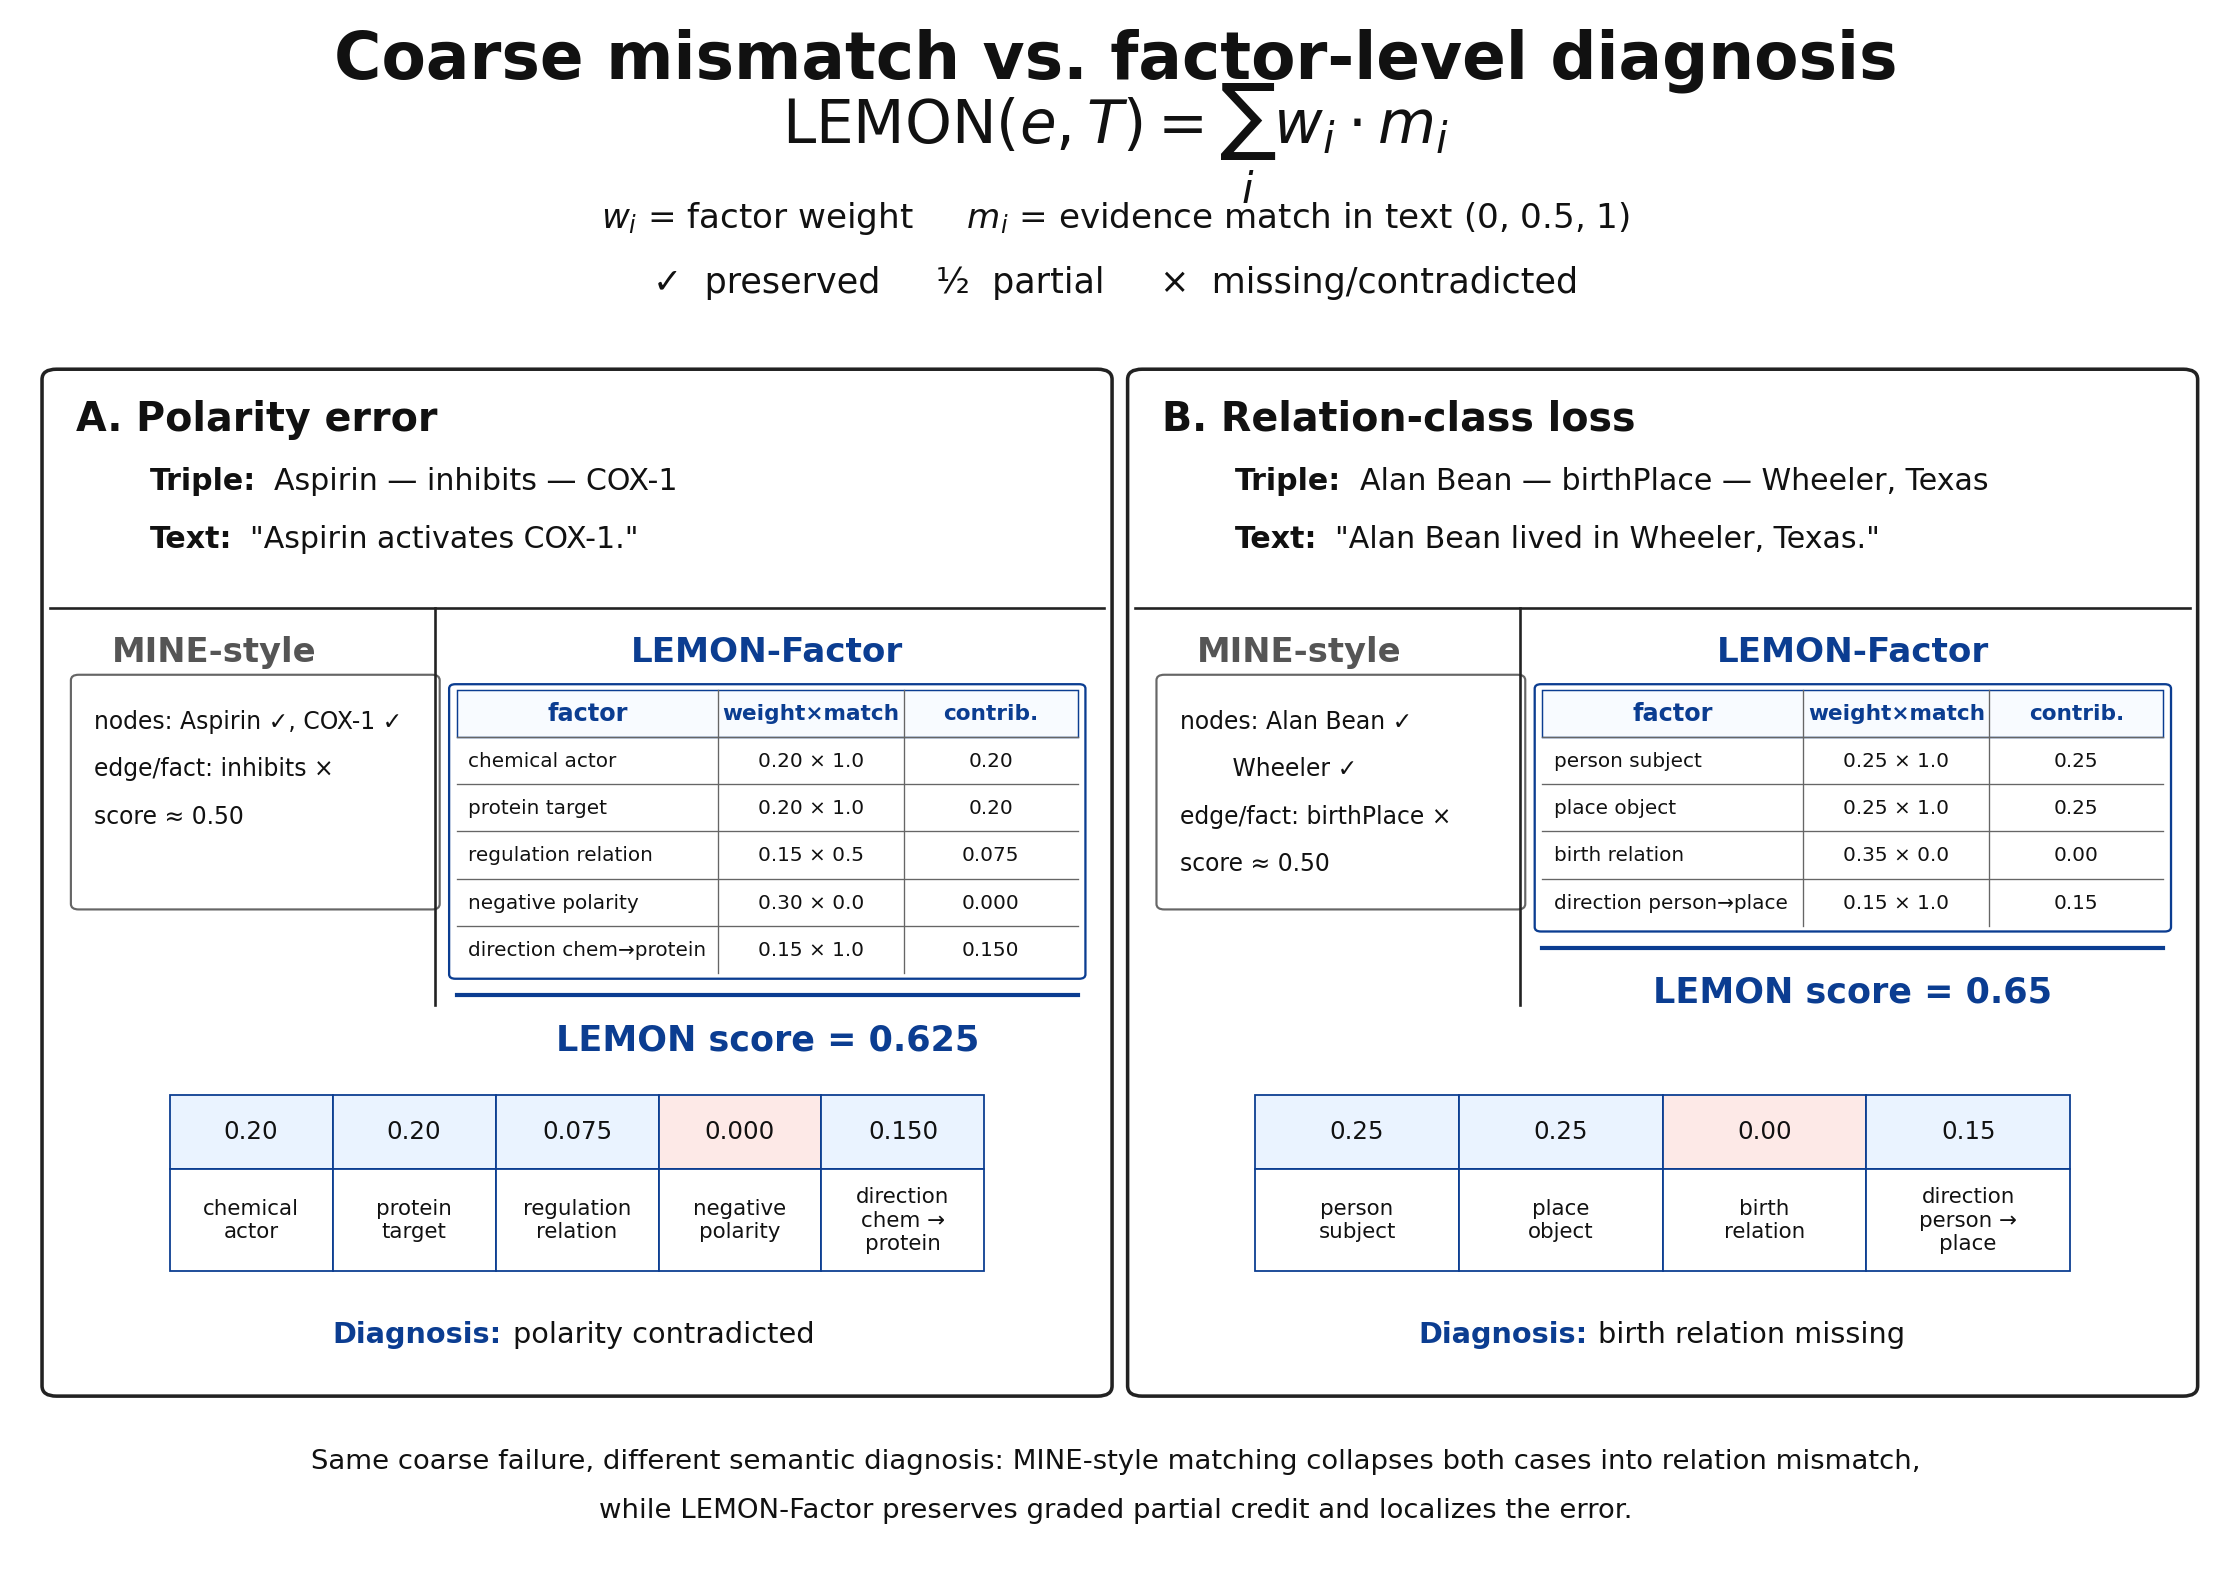
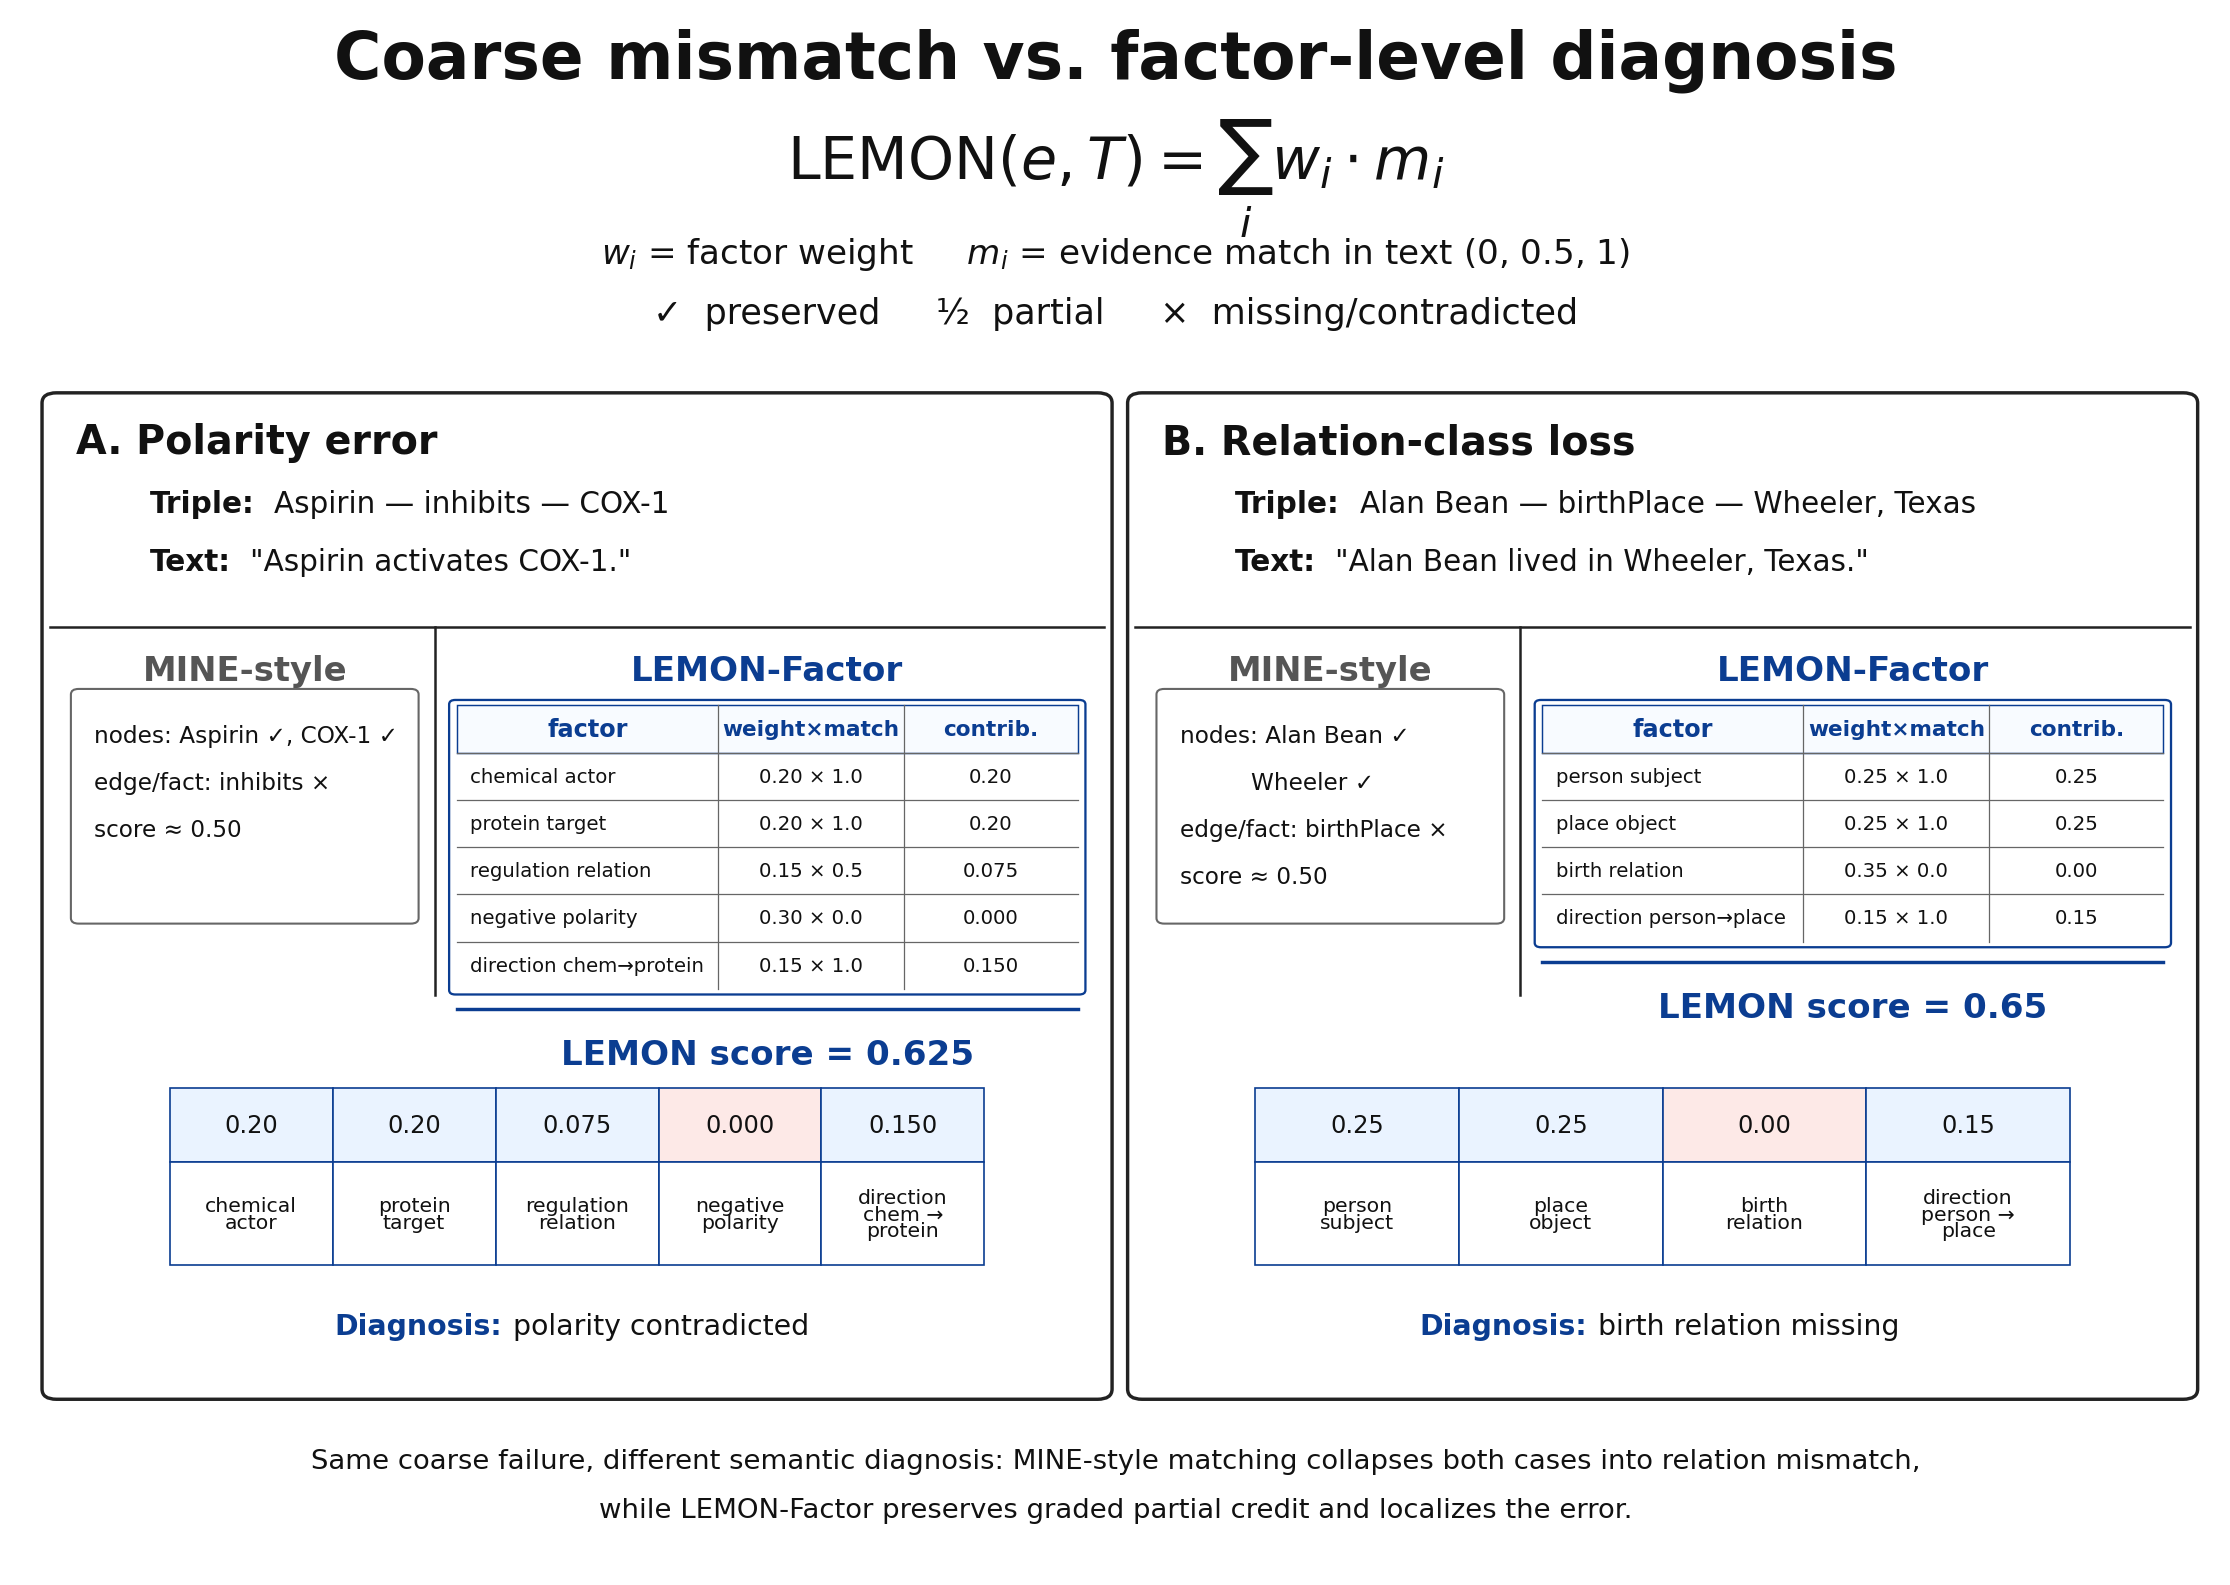
d

diff --git a/scripts/make_factor_scoring_examples.py b/scripts/make_factor_scoring_examples.py
@@ -1,4 +1,3 @@
-
 from pathlib import Path
 import matplotlib as mpl
 mpl.use('Agg')
@@ -17,9 +16,8 @@ BLACK = '#111111'
 LINE = '#222222'
 GRID = '#666666'
 
-ROOT = Path(__file__).resolve().parents[1]
-OUT_DIR = ROOT / 'paper' / 'figures'
-OUT_DIR.mkdir(parents=True, exist_ok=True)
+# Keep output explicit for reproducible TeX inclusion.
+OUT_DIR = Path(__file__).resolve().parent
 OUT_PDF = OUT_DIR / 'figure_factor_scoring_examples.pdf'
 OUT_PNG = OUT_DIR / 'figure_factor_scoring_examples.png'
 
@@ -31,61 +29,90 @@ fig.patch.set_facecolor('white')
 ax.set_facecolor('white')
 
 # Helpers
-def txt(x, y, s, size=7, weight='normal', color=BLACK, ha='left', va='center', style='normal'):
-    return ax.text(x, y, s, fontsize=size, fontweight=weight, color=color, ha=ha, va=va, fontstyle=style)
+
+def txt(x, y, s, size=7, weight='normal', color=BLACK, ha='left', va='center',
+        style='normal', linespacing=1.0):
+    return ax.text(
+        x, y, s,
+        fontsize=size,
+        fontweight=weight,
+        color=color,
+        ha=ha,
+        va=va,
+        fontstyle=style,
+        linespacing=linespacing,
+    )
+
 
 def rounded(x, y, w, h, radius=0.007, ec=LINE, lw=0.7, fc='white'):
-    p = FancyBboxPatch((x, y), w, h, boxstyle=f"round,pad=0.0035,rounding_size={radius}", linewidth=lw, edgecolor=ec, facecolor=fc)
+    p = FancyBboxPatch(
+        (x, y), w, h,
+        boxstyle=f"round,pad=0.0035,rounding_size={radius}",
+        linewidth=lw,
+        edgecolor=ec,
+        facecolor=fc,
+    )
     ax.add_patch(p)
     return p
+
 
 def rect(x, y, w, h, ec=LINE, lw=0.4, fc='white'):
     p = Rectangle((x, y), w, h, linewidth=lw, edgecolor=ec, facecolor=fc)
     ax.add_patch(p)
     return p
 
-# Header
+
+# Header: the formula is intentionally lower than in the original, so the
+# summation glyph does not collide visually with the title.
 txt(0.5, 0.965, 'Coarse mismatch vs. factor-level diagnosis', size=15.5, weight='bold', ha='center')
-txt(0.5, 0.912, r'$\mathrm{LEMON}(e,T)=\sum_i w_i\cdot m_i$', size=14.3, ha='center')
-txt(0.5, 0.865, r'$w_i$ = factor weight     $m_i$ = evidence match in text (0, 0.5, 1)', size=8.2, ha='center')
-txt(0.5, 0.824, '✓  preserved     ½  partial     ×  missing/contradicted', size=8.4, ha='center')
+txt(0.5, 0.890, r'$\mathrm{LEMON}(e,T)=\sum_i w_i\cdot m_i$', size=14.1, ha='center')
+txt(0.5, 0.842, r'$w_i$ = factor weight     $m_i$ = evidence match in text (0, 0.5, 1)', size=8.2, ha='center')
+txt(0.5, 0.804, '✓  preserved     ½  partial     ×  missing/contradicted', size=8.4, ha='center')
 
 # Panel geometry
-panel_y, panel_h = 0.12, 0.645
+panel_y, panel_h = 0.118, 0.632
 panel_w, gap = 0.475, 0.014
-left_x = 0.02
+left_x = 0.020
 right_x = left_x + panel_w + gap
-rounded(left_x, panel_y, panel_w, panel_h, radius=0.0065, lw=0.85)
-rounded(right_x, panel_y, panel_w, panel_h, radius=0.0065, lw=0.85)
+rounded(left_x, panel_y, panel_w, panel_h, radius=0.0065, lw=0.82)
+rounded(right_x, panel_y, panel_w, panel_h, radius=0.0065, lw=0.82)
+
 
 def draw_table(lx, sep_y, lw, rows, score):
     header_h = 0.030
     row_h = 0.030
     n = len(rows)
     table_h = header_h + n * row_h
-    table_top = sep_y - 0.052
+    table_top = sep_y - 0.050
     table_y = table_top - table_h
+
     rounded(lx, table_y, lw, table_h, radius=0.0028, lw=0.55, ec=BLUE)
     rect(lx, table_y + table_h - header_h, lw, header_h, ec=BLUE, lw=0.35, fc='#f8fbff')
+
     c1 = lx + lw * 0.42
     c2 = lx + lw * 0.72
-    ax.plot([c1, c1], [table_y, table_y + table_h], color=GRID, linewidth=0.32)
-    ax.plot([c2, c2], [table_y, table_y + table_h], color=GRID, linewidth=0.32)
-    txt(lx + lw * 0.21, table_y + table_h - header_h/2, 'factor', size=5.75, weight='bold', color=BLUE, ha='center')
-    txt(c1 + lw * 0.15, table_y + table_h - header_h/2, 'weight×match', size=5.2, weight='bold', color=BLUE, ha='center')
-    txt(c2 + lw * 0.14, table_y + table_h - header_h/2, 'contrib.', size=5.2, weight='bold', color=BLUE, ha='center')
+    ax.plot([c1, c1], [table_y, table_y + table_h], color=GRID, linewidth=0.30)
+    ax.plot([c2, c2], [table_y, table_y + table_h], color=GRID, linewidth=0.30)
+
+    txt(lx + lw * 0.21, table_y + table_h - header_h / 2, 'factor', size=5.75, weight='bold', color=BLUE, ha='center')
+    txt(c1 + lw * 0.15, table_y + table_h - header_h / 2, 'weight×match', size=5.2, weight='bold', color=BLUE, ha='center')
+    txt(c2 + lw * 0.14, table_y + table_h - header_h / 2, 'contrib.', size=5.2, weight='bold', color=BLUE, ha='center')
+
     for i, (fac, wm, con) in enumerate(rows):
         yy_top = table_y + table_h - header_h - i * row_h
-        ax.plot([lx, lx + lw], [yy_top, yy_top], color=GRID, linewidth=0.32)
-        yy = yy_top - row_h/2
-        txt(lx + 0.005, yy, fac, size=4.8)
-        txt(c1 + lw * 0.15, yy, wm, size=4.8, ha='center')
-        txt(c2 + lw * 0.14, yy, con, size=4.8, ha='center')
-    # score
-    line_y = table_y - 0.014
-    ax.plot([lx, lx + lw], [line_y, line_y], color=BLUE, linewidth=1.0)
-    txt(lx + lw/2, line_y - 0.028, f'LEMON score = {score}', size=8.4, weight='bold', color=BLUE, ha='center')
-    return table_y
+        ax.plot([lx, lx + lw], [yy_top, yy_top], color=GRID, linewidth=0.30)
+        yy = yy_top - row_h / 2
+        txt(lx + 0.006, yy, fac, size=4.75)
+        txt(c1 + lw * 0.15, yy, wm, size=4.75, ha='center')
+        txt(c2 + lw * 0.14, yy, con, size=4.75, ha='center')
+
+    # Score: slightly lighter rule and a bit more air than in the original.
+    line_y = table_y - 0.013
+    score_y = line_y - 0.029
+    ax.plot([lx, lx + lw], [line_y, line_y], color=BLUE, linewidth=0.82)
+    txt(lx + lw / 2, score_y, f'LEMON score = {score}', size=8.2, weight='bold', color=BLUE, ha='center')
+    return table_y, line_y, score_y
+
 
 def draw_contrib_strip(x, y, w, vals, labels):
     strip_h = 0.112
@@ -96,39 +123,57 @@ def draw_contrib_strip(x, y, w, vals, labels):
     for i, (val, lab) in enumerate(zip(vals, labels)):
         cx = strip_x + i * col_w
         fc_top = LIGHT_PINK if float(val) == 0 else LIGHT_BLUE
-        rect(cx, y + strip_h * 0.58, col_w, strip_h * 0.42, ec=BLUE, lw=0.43, fc=fc_top)
-        rect(cx, y, col_w, strip_h * 0.58, ec=BLUE, lw=0.43, fc='white')
-        txt(cx + col_w/2, y + strip_h * 0.79, val, size=5.9, ha='center')
-        txt(cx + col_w/2, y + strip_h * 0.29, lab, size=5.15, ha='center')
+        rect(cx, y + strip_h * 0.58, col_w, strip_h * 0.42, ec=BLUE, lw=0.40, fc=fc_top)
+        rect(cx, y, col_w, strip_h * 0.58, ec=BLUE, lw=0.40, fc='white')
+        txt(cx + col_w / 2, y + strip_h * 0.79, val, size=5.8, ha='center')
+        txt(cx + col_w / 2, y + strip_h * 0.285, lab, size=4.9, ha='center', linespacing=0.85)
+
+
+def draw_mine_box(mine_x, mine_y, mine_w, mine_h, mine_lines):
+    rounded(mine_x, mine_y, mine_w, mine_h, radius=0.0035, lw=0.50, ec=GRID)
+    for i, item in enumerate(mine_lines):
+        # item can be a string or (text, x_offset) for cleaner manual indentation.
+        if isinstance(item, tuple):
+            line, xoff = item
+        else:
+            line, xoff = item, 0.0
+        txt(mine_x + 0.007 + xoff, mine_y + mine_h - 0.026 - 0.030 * i, line, size=5.55)
+
 
 def draw_panel(x, y, w, h, label, triple, sent, mine_lines, rows, score, vals, labels, diagnosis):
-    header_h = 0.148
+    header_h = 0.145
     sep_y = y + h - header_h
+
     txt(x + 0.012, y + h - 0.028, label, size=9.5, weight='bold')
     tx = x + 0.045
     ty = y + h - 0.067
-    txt(tx, ty, 'Triple:', size=7.2, weight='bold')
-    txt(tx + 0.056, ty, triple, size=7.2)
-    txt(tx, ty - 0.037, 'Text:', size=7.2, weight='bold')
-    txt(tx + 0.045, ty - 0.037, sent, size=7.2)
-    ax.plot([x, x + w], [sep_y, sep_y], color=LINE, linewidth=0.63)
+    txt(tx, ty, 'Triple:', size=7.1, weight='bold')
+    txt(tx + 0.056, ty, triple, size=7.1)
+    txt(tx, ty - 0.037, 'Text:', size=7.1, weight='bold')
+    txt(tx + 0.045, ty - 0.037, sent, size=7.1)
+    ax.plot([x, x + w], [sep_y, sep_y], color=LINE, linewidth=0.60)
 
+    # Split is unchanged, but the MINE box is slightly narrower. This places the
+    # divider in the whitespace instead of on the right edge of the text box.
     split = x + w * 0.365
-    ax.plot([split, split], [sep_y, y + 0.245], color=LINE, linewidth=0.63)
-    txt(x + 0.074, sep_y - 0.028, 'MINE-style', size=8.1, weight='bold', color=GRAY, ha='center')
-    mine_x, mine_y, mine_w, mine_h = x + 0.013, sep_y - 0.188, w * 0.335, 0.142
-    rounded(mine_x, mine_y, mine_w, mine_h, radius=0.0035, lw=0.52, ec=GRID)
-    for i, line in enumerate(mine_lines):
-        txt(mine_x + 0.007, mine_y + mine_h - 0.026 - 0.030 * i, line, size=5.65)
+    section_bottom = y + 0.253
+    ax.plot([split, split], [sep_y, section_bottom], color=LINE, linewidth=0.60)
+
+    mine_x, mine_y, mine_w, mine_h = x + 0.013, sep_y - 0.185, w * 0.315, 0.142
+    txt(mine_x + mine_w / 2, sep_y - 0.028, 'MINE-style', size=8.1, weight='bold', color=GRAY, ha='center')
+    draw_mine_box(mine_x, mine_y, mine_w, mine_h, mine_lines)
 
     lx = split + 0.010
     lw = x + w - lx - 0.012
-    txt(lx + lw/2, sep_y - 0.028, 'LEMON-Factor', size=8.2, weight='bold', color=BLUE, ha='center')
+    txt(lx + lw / 2, sep_y - 0.028, 'LEMON-Factor', size=8.2, weight='bold', color=BLUE, ha='center')
     draw_table(lx, sep_y, lw, rows, score)
-    draw_contrib_strip(x, y + 0.076, w, vals, labels)
-    diag_y = y + 0.036
-    txt(x + w/2 - 0.034, diag_y, 'Diagnosis:', size=6.9, weight='bold', color=BLUE, ha='right')
-    txt(x + w/2 - 0.029, diag_y, diagnosis, size=6.9, ha='left')
+
+    draw_contrib_strip(x, y + 0.082, w, vals, labels)
+
+    diag_y = y + 0.043
+    txt(x + w / 2 - 0.034, diag_y, 'Diagnosis:', size=6.8, weight='bold', color=BLUE, ha='right')
+    txt(x + w / 2 - 0.029, diag_y, diagnosis, size=6.8, ha='left')
+
 
 # Draw panels
 draw_panel(
@@ -147,7 +192,7 @@ draw_panel(
     '0.625',
     ['0.20', '0.20', '0.075', '0.000', '0.150'],
     ['chemical\nactor', 'protein\ntarget', 'regulation\nrelation', 'negative\npolarity', 'direction\nchem →\nprotein'],
-    'polarity contradicted'
+    'polarity contradicted',
 )
 
 draw_panel(
@@ -155,7 +200,7 @@ draw_panel(
     'B. Relation-class loss',
     'Alan Bean — birthPlace — Wheeler, Texas',
     '"Alan Bean lived in Wheeler, Texas."',
-    ['nodes: Alan Bean ✓', '       Wheeler ✓', 'edge/fact: birthPlace ×', 'score ≈ 0.50'],
+    [('nodes: Alan Bean ✓', 0.0), ('Wheeler ✓', 0.032), ('edge/fact: birthPlace ×', 0.0), ('score ≈ 0.50', 0.0)],
     [
         ('person subject', '0.25 × 1.0', '0.25'),
         ('place object', '0.25 × 1.0', '0.25'),
@@ -165,7 +210,7 @@ draw_panel(
     '0.65',
     ['0.25', '0.25', '0.00', '0.15'],
     ['person\nsubject', 'place\nobject', 'birth\nrelation', 'direction\nperson →\nplace'],
-    'birth relation missing'
+    'birth relation missing',
 )
 
 # Footer note
